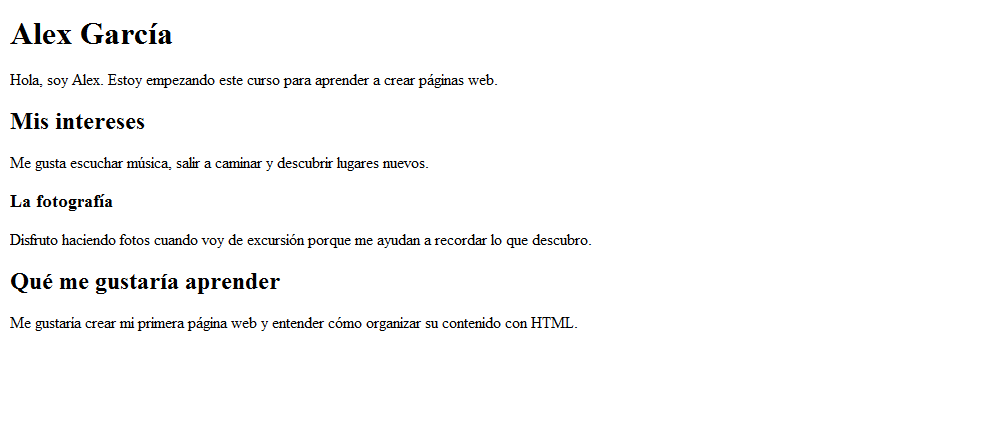
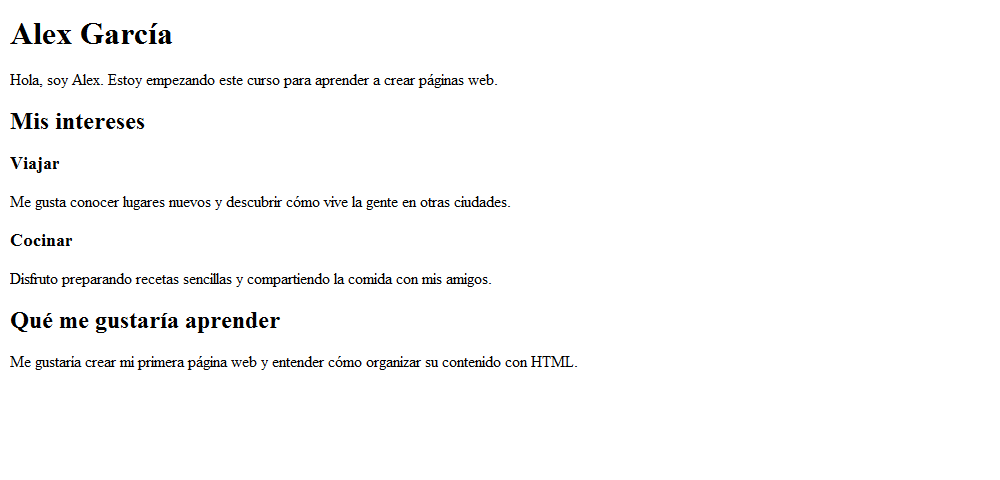
Update README.md and presentation example to clarify structure and requirements

diff --git a/0-mi-presentacion/README.md b/0-mi-presentacion/README.md
@@ -23,30 +23,30 @@ Después de cada paso, guarda el archivo con **Ctrl + S** y comprueba el resulta
 
 1. **Tu nombre.** Añade un único encabezado principal `h1` con tu nombre o apodo.
 2. **Una breve introducción.** Debajo, escribe un párrafo `p` de una o dos frases para presentarte.
-3. **Tus intereses.** Añade un encabezado `h2` titulado «Mis intereses» y, debajo, un párrafo contando algo que te guste hacer.
-4. **Un interés en detalle.** Dentro de ese apartado, añade un encabezado `h3` que nombre una afición concreta. Debajo, escribe otro párrafo explicando por qué te gusta. Este subapartado forma parte de «Mis intereses».
+3. **Tus intereses.** Añade un encabezado `h2` titulado «Mis intereses». No escribas un párrafo introductorio: a continuación irán los subapartados de tus aficiones.
+4. **Dos intereses en detalle.** Dentro de ese apartado, añade dos encabezados `h3`, por ejemplo, «Viajar» y «Cocinar». Debajo de cada uno, escribe un párrafo explicando por qué te gusta esa actividad. Puedes elegir otras aficiones. Ambos subapartados forman parte de «Mis intereses» y están al mismo nivel.
 5. **Tu objetivo.** Añade un nuevo `h2` titulado «Qué me gustaría aprender» y un párrafo explicando algo que esperas conseguir en el curso. Este apartado está al mismo nivel que «Mis intereses».
 6. **Revisa la organización.** Comprueba que los párrafos están fuera de los encabezados y que has cerrado cada etiqueta.
 
-El resultado tendrá **un `h1`, dos `h2`, un `h3` y cuatro párrafos**. El contenido lo eliges tú. La página tendrá el aspecto sencillo que le da el navegador: no hay que añadir decoración.
+El resultado tendrá **un `h1`, dos `h2`, dos `h3` y cuatro párrafos**. El contenido lo eliges tú. La página tendrá el aspecto sencillo que le da el navegador: no hay que añadir decoración.
 
 ## Resultado esperado
 
 Consulta la [captura de ejemplo](resultadoEsperado.png). El nombre y los textos son orientativos: escribe tu propia presentación respetando la estructura del ejercicio. No necesitas copiar exactamente los tamaños ni los espacios, que pueden variar según el navegador.
 
-![Ejemplo de presentación con un título principal, dos apartados, una afición como subapartado y cuatro párrafos.](resultadoEsperado.png)
+![Ejemplo de presentación con un título principal, dos apartados, Viajar y Cocinar como subapartados y cuatro párrafos.](resultadoEsperado.png)
 
 ## Comprueba tu trabajo
 
 - [ ] Mi nombre aparece como encabezado principal.
 - [ ] Hay una introducción y dos apartados principales.
-- [ ] Una afición tiene su propio subapartado dentro de «Mis intereses».
+- [ ] Dos aficiones tienen su propio subapartado `h3` dentro de «Mis intereses», sin párrafo introductorio antes de la primera.
 - [ ] He escrito cuatro párrafos, cada uno dentro de su propio elemento `p`.
 - [ ] Todas las etiquetas que he añadido tienen apertura y cierre.
 - [ ] No he escrito atributos: mis etiquetas de apertura contienen solo el nombre, por ejemplo `<p>`.
 - [ ] He abierto el ejercicio con Live Server y al guardar una frase veo el cambio automáticamente en el navegador.
 
-Para terminar, explica a una persona del grupo por qué la afición concreta lleva `h3` y «Qué me gustaría aprender» lleva `h2`. No elijas el nivel solo por el tamaño de letra.
+Para terminar, explica a una persona del grupo por qué las dos aficiones llevan `h3` y «Qué me gustaría aprender» lleva `h2`. No elijas el nivel solo por el tamaño de letra.
 
 ## Pistas: consulta solo lo que necesites
 

diff --git a/README.md b/README.md
@@ -69,13 +69,13 @@ El [README de la presentación](0-mi-presentacion/README.md) conserva las pistas
 
 1. Un `h1` con tu nombre o apodo.
 2. Un párrafo `p` con una introducción de una o dos frases.
-3. Un `h2` titulado «Mis intereses» y un párrafo sobre algo que te guste hacer.
-4. Un `h3` con una afición concreta y un párrafo explicando por qué te gusta. Este subapartado pertenece a «Mis intereses».
+3. Un `h2` titulado «Mis intereses», sin un párrafo introductorio debajo.
+4. Dos subapartados `h3` dentro de «Mis intereses», por ejemplo, «Viajar» y «Cocinar». Debajo de cada uno, un párrafo explicando por qué te gusta esa actividad. Puedes elegir otras aficiones.
 5. Otro `h2`, «Qué me gustaría aprender», y un párrafo con tu objetivo para el curso.
 
-**Resultado esperado:** un `h1`, dos `h2`, un `h3` y cuatro párrafos. Consulta la [captura de ejemplo](0-mi-presentacion/resultadoEsperado.png). El nombre y los textos son orientativos: escribe tu propia presentación. El aspecto será el que dé el navegador, sin decoración añadida.
+**Resultado esperado:** un `h1`, dos `h2`, dos `h3` y cuatro párrafos. Consulta la [captura de ejemplo](0-mi-presentacion/resultadoEsperado.png). El nombre y los textos son orientativos: escribe tu propia presentación. El aspecto será el que dé el navegador, sin decoración añadida.
 
-![Ejemplo de presentación con un título principal, dos apartados, una afición como subapartado y cuatro párrafos.](0-mi-presentacion/resultadoEsperado.png)
+![Ejemplo de presentación con un título principal, dos apartados, Viajar y Cocinar como subapartados y cuatro párrafos.](0-mi-presentacion/resultadoEsperado.png)
 
 **No uses atributos, CSS, JavaScript, imágenes, enlaces ni listas en este ejercicio.**
 
@@ -88,8 +88,8 @@ El [README de la presentación](0-mi-presentacion/README.md) conserva las pistas
 
 ### Comprueba tu trabajo
 
-- [ ] Tengo los cuatro encabezados y los cuatro párrafos indicados.
-- [ ] Entiendo por qué la afición lleva `h3` y el objetivo lleva `h2`.
+- [ ] Tengo los cinco encabezados y los cuatro párrafos indicados.
+- [ ] Entiendo por qué las dos aficiones llevan `h3` y el objetivo lleva `h2`.
 - [ ] No he usado atributos y he cerrado mis etiquetas.
 - [ ] He abierto el ejercicio con Live Server y al guardar una frase veo el cambio automáticamente.
 
